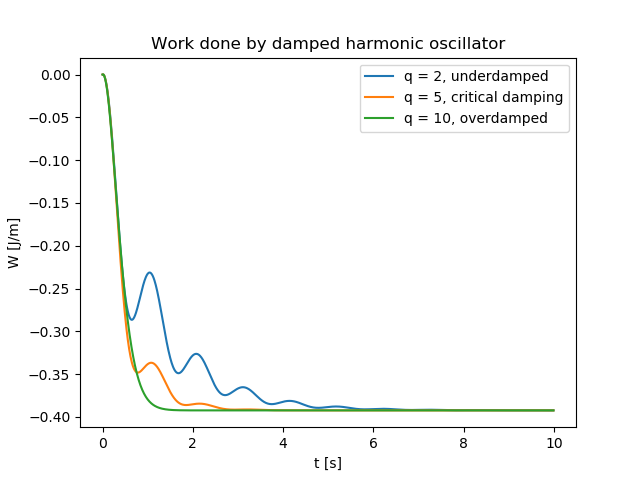
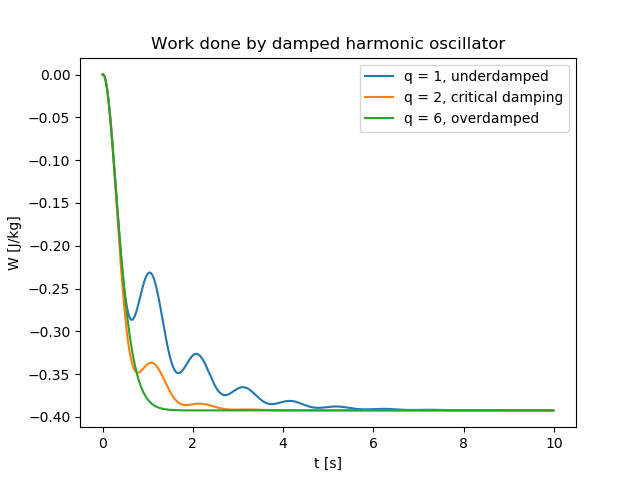
Version 0.6.2
Cosmetic change

Changed region(s): [[0.6562, 0.1562, 0.875, 0.2812], [0.0, 0.4375, 0.0312, 0.5625]]

diff --git a/Harmonic.py b/Harmonic.py
@@ -60,6 +60,6 @@ class Harmonic:
             t4 = theta_prime(omega[i] + t3 * step)
             theta[i + 1] = theta[i] + (step / 6) * (t1 + 2 * t2 + 2 * t3 + t4)
 
-        work = 0.5*(omega*omega - params.omega0**2) + (params.g/params.l)*(theta*theta - params.theta0**2)
+        work = 0.5*(params.l**2) * (omega*omega - params.omega0**2) + (params.g*params.l)*(theta*theta - params.theta0**2)
         return t, theta, work
 

diff --git a/ex2.py b/ex2.py
@@ -25,7 +25,7 @@ plt.plot(t1, w1, label="q = 1, underdamped")
 plt.plot(t2, w2, label="q = 2, critical damping")
 plt.plot(t3, w3, label="q = 6, overdamped")
 plt.xlabel("t [s]")
-plt.ylabel("W [J/m]")
+plt.ylabel("W [J/kg]")
 plt.title("Work done by damped harmonic oscillator")
 plt.legend()
 if not os.path.exists("plots"):
